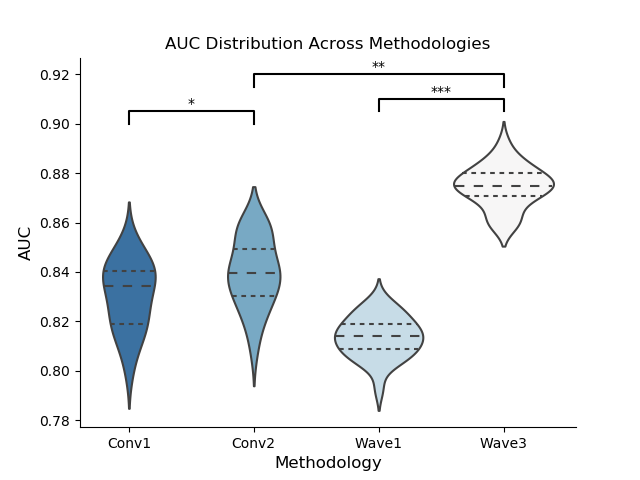
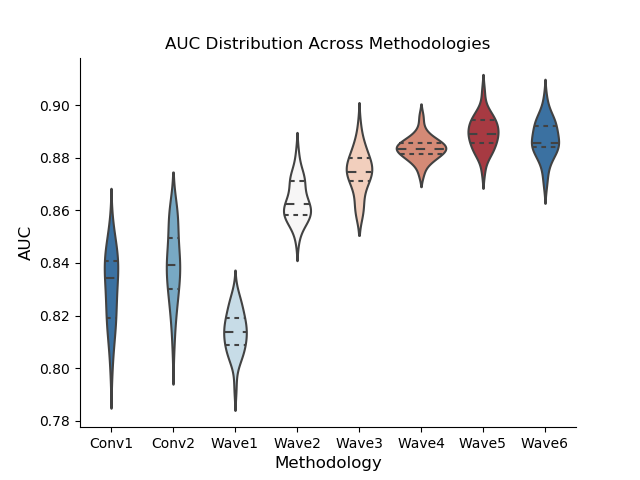
Updated Violin Plots

diff --git a/src/statistics.py b/src/statistics.py
@@ -105,7 +105,7 @@ def violin_plots(df, metric, methods, sig_sl = None, sig_ml = None, sig_wl = Non
         x1, x2 = 0, 1
         y, h, col = .90, .005, 'k'
         annotatefig(sig_cl[1][0], x1, x2, y, h)
-
+    
     plt.savefig(os.path.split(os.getcwd())[0] + "/results/" + metric + "_Across_Methods.png")
 
 if __name__ == '__main__':
@@ -137,7 +137,7 @@ if __name__ == '__main__':
     
     # Variable Flags
     create_violin = True
-    check_stats = True
+    check_stats = False
     print(os.path.split(os.getcwd()))
     
     for metric in metrics:
